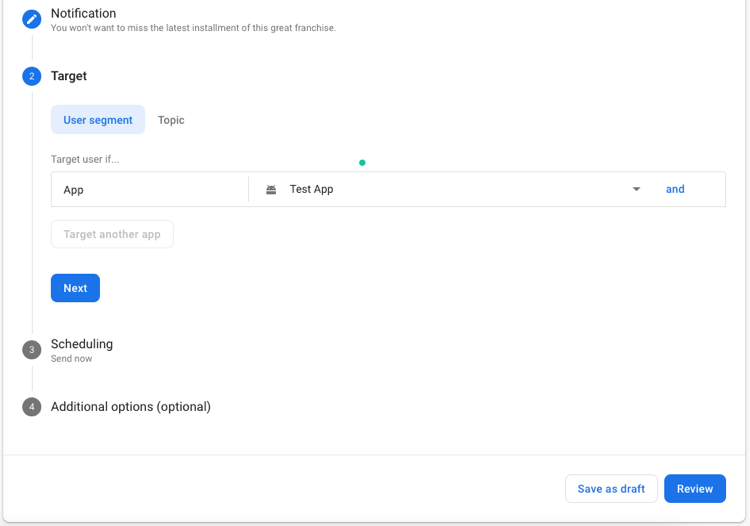
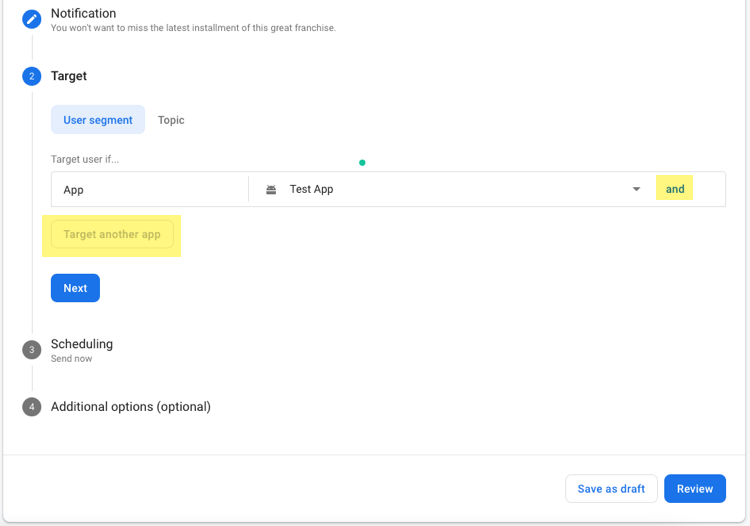
WIP: Sendign App Notifications doc

Changed region(s): [[0.0307, 0.3954, 0.2453, 0.4867], [0.8587, 0.3346, 0.9507, 0.3954]]

diff --git a/_site/using-brightcove-beacon/sending-app-notifications.html b/_site/using-brightcove-beacon/sending-app-notifications.html
@@ -772,26 +772,22 @@ function doGTranslate(lang_pair) {if(lang_pair.value)lang_pair=lang_pair.value;i
           <img class="bcls-image" src="/assets/images/using-bcb/sending-app-notifications/notification-name.png" alt="notification name">
         </figure>
       </li>
-      <li>If a development device is configured, you can test the message.
-        <figure class="bcls-figure">
-          <img class="bcls-image" src="/assets/images/using-bcb/sending-app-notifications/test-message.png" alt="test message">
-        </figure>
-      </li>
       <li>Click <strong>Next</strong>.</li>
     </ol>
   </section>
   <h3 id="Define_the_target">Define the target</h3>
   <p>When you define the target you configure which app(s) should receive the notification and also define any further restrictions on whom should receive the notification.</p>
   <ol class="bcls-tasklist">
-    <li>Select the app or apps to which you wish to send the notification.
+    <li>Select the app or apps to which you wish to send the notification. <em>Note that to add another app you need to click the <strong>Target another app</strong> button, which is disabled currently in the screenshot.</em>
       <figure class="bcls-figure">
         <img class="bcls-image" src="/assets/images/using-bcb/sending-app-notifications/target.png" alt="target">
       </figure>
     </li>
-    <li>Add any restrictions for each app to which you are sending the notification.
+    <li>Add any filters for each app to which you are sending the notification by clicking the <strong>and</strong> button.
       <figure class="bcls-figure">
         <img class="bcls-image" src="/assets/images/using-bcb/sending-app-notifications/target-restrictions.png" alt="target restrictions">
       </figure>
+      <aside class="bcls-aside bcls-aside--tip">A common use case of adding a filter is limiting the notification by app version. This is useful to let users know that there is a new version available (with a potential new fix/feature).</aside>
     </li>
     <li>Click <strong>Next</strong>.</li>
   </ol>

diff --git a/using-brightcove-beacon/sending-app-notifications.html b/using-brightcove-beacon/sending-app-notifications.html
@@ -53,26 +53,22 @@ layout: "staging"
           <img class="bcls-image" src="/assets/images/using-bcb/sending-app-notifications/notification-name.png" alt="notification name">
         </figure>
       </li>
-      <li>If a development device is configured, you can test the message.
-        <figure class="bcls-figure">
-          <img class="bcls-image" src="/assets/images/using-bcb/sending-app-notifications/test-message.png" alt="test message">
-        </figure>
-      </li>
       <li>Click <strong>Next</strong>.</li>
     </ol>
   </section>
   <h3 id="Define_the_target">Define the target</h3>
   <p>When you define the target you configure which app(s) should receive the notification and also define any further restrictions on whom should receive the notification.</p>
   <ol class="bcls-tasklist">
-    <li>Select the app or apps to which you wish to send the notification.
+    <li>Select the app or apps to which you wish to send the notification. <em>Note that to add another app you need to click the <strong>Target another app</strong> button, which is disabled currently in the screenshot.</em>
       <figure class="bcls-figure">
         <img class="bcls-image" src="/assets/images/using-bcb/sending-app-notifications/target.png" alt="target">
       </figure>
     </li>
-    <li>Add any restrictions for each app to which you are sending the notification.
+    <li>Add any filters for each app to which you are sending the notification by clicking the <strong>and</strong> button.
       <figure class="bcls-figure">
         <img class="bcls-image" src="/assets/images/using-bcb/sending-app-notifications/target-restrictions.png" alt="target restrictions">
       </figure>
+      <aside class="bcls-aside bcls-aside--tip">A common use case of adding a filter is limiting the notification by app version. This is useful to let users know that there is a new version available (with a potential new fix/feature).</aside>
     </li>
     <li>Click <strong>Next</strong>.</li>
   </ol>
